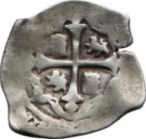
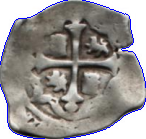
hey new branch lmao

diff --git a/Scripts/extract_imagine.py b/Scripts/extract_imagine.py
@@ -20,7 +20,7 @@ invbinaryimg = cv.threshold(grayimg, binarythresh, 255, cv.THRESH_BINARY_INV)[1]
 
 contours = cv.findContours(invbinaryimg, cv.RETR_EXTERNAL, cv.CHAIN_APPROX_NONE)[0]
 contoursbinaryimg = invbinaryimg.copy()
-cv.drawContours(contoursbinaryimg, contours, -1, color=(255, 255, 255), thickness=cv.FILLED)
+cv.drawContours(img, contours, -1, color=(255, 0, 0), thickness=1)
 
 contrastarr = [[0 for j in range(cols)] for i in range(rows)]
 '''
@@ -63,6 +63,7 @@ for c in cnts:
     cv.imwrite("Assets\\Objects\\element_{}.png".format(image_number), element)
     image_number += 1
 
+cv.imshow("img", img)
 cv.imshow("grayimg", grayimg)
 cv.imshow("invbinaryimg", invbinaryimg)
 cv.imshow("betterholesimg", betterholesimg)
